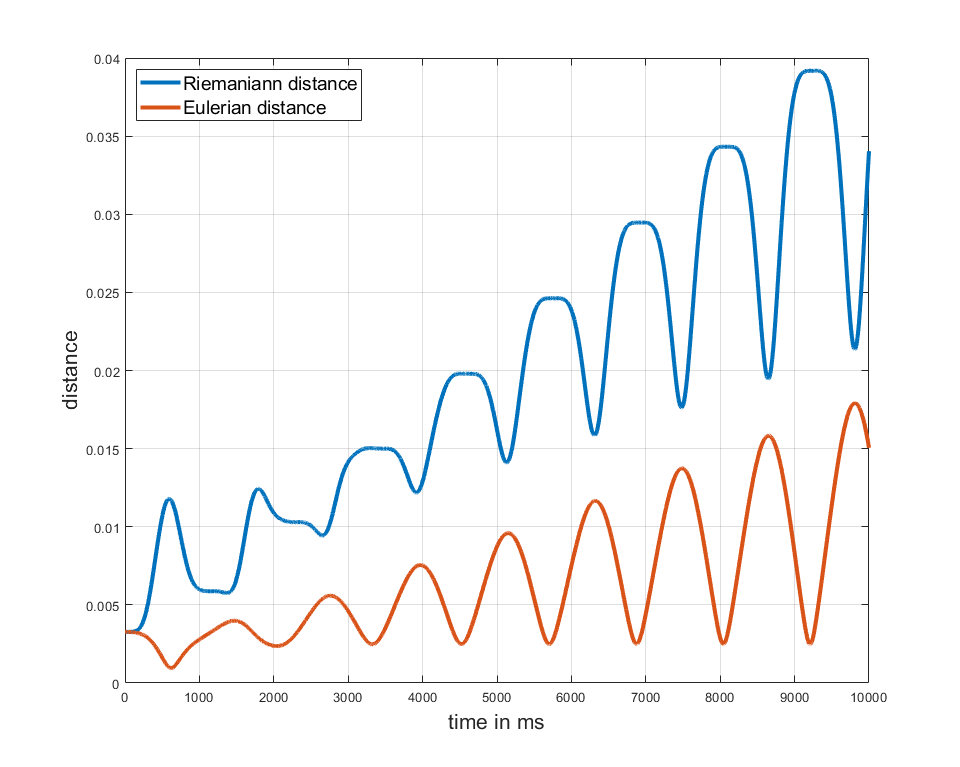
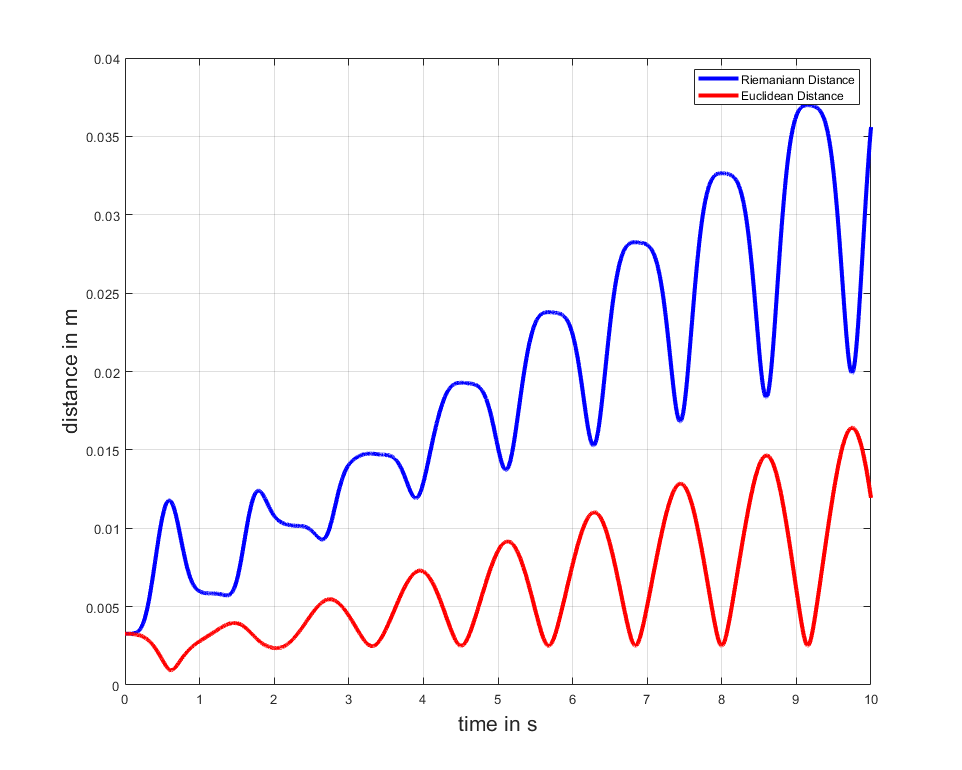
new script for plots

diff --git a/plotDist.m b/plotDist.m
@@ -1,0 +1,32 @@
+function plotDist(rDist, eDist, same)
+
+if nargin < 3
+    same = false;
+end
+
+time = linspace(0, 10, size(rDist, 2));
+
+if same
+    subplot(2,1,1)
+    plot(time, rDist, 'b-', 'LineWidth', 3)
+    title('Riemaniann Distance', 'FontSize', 16)
+    xlabel('time in s', 'FontSize', 16)
+    ylabel('distance in m', 'FontSize', 16)
+    grid on
+    subplot(2,1,2)
+    plot(time, eDist, 'r-', 'LineWidth', 3)
+    title('Euclidean Distance', 'FontSize', 16)
+    xlabel('time in s', 'FontSize', 16)
+    ylabel('distance in m', 'FontSize', 16)
+    grid on
+else
+    plot(time, rDist, 'b-', 'LineWidth', 3, 'DisplayName', 'Riemaniann Distance')
+    hold on
+    plot(time, eDist, 'r-', 'LineWidth', 3, 'DisplayName', 'Euclidean Distance')
+    xlabel('time in s', 'FontSize', 16)
+    ylabel('distance in m', 'FontSize', 16)
+    grid on
+    legend('show')
+end
+
+end

diff --git a/evalPlotDist.m b/evalPlotDist.m
@@ -1,0 +1,19 @@
+function evalPlotDist(sol1, sol2, geo, same)
+% evaluate the distance and plot the solution
+
+if nargin == 2
+    same = false;
+    rDist = riemannDistance(sol1, sol2);
+    eDist = euclidDistance(sol1, sol2);
+elseif nargin == 3
+    same = false;
+    rDist = riemannDistance(sol1, sol2, geo);
+    eDist = euclidDistance(sol1, sol2);
+else
+    rDist = riemannDistance(sol1, sol2, geo);
+    eDist = euclidDistance(sol1, sol2);
+end
+
+plotDist(rDist, eDist, same)
+
+end

diff --git a/riemannDistance.m b/riemannDistance.m
@@ -12,7 +12,7 @@ if m1~=m2 || n1~=n2
     error('incompatible solutions!')
 end
 
-rslt = zeros(n1, 1);
+rslt = zeros(1, n1);
 
 for i = 1:n1
     if calculate_geodesic

diff --git a/euclidDistance.m b/euclidDistance.m
@@ -1,4 +1,4 @@
-function rslt = eulerDistance(sol1, sol2)
+function rslt = euclidDistance(sol1, sol2)
 
 rslt = sqrt(sum((sol1(1:3, :) - sol2(1:3, :)).^2, 1));
 
